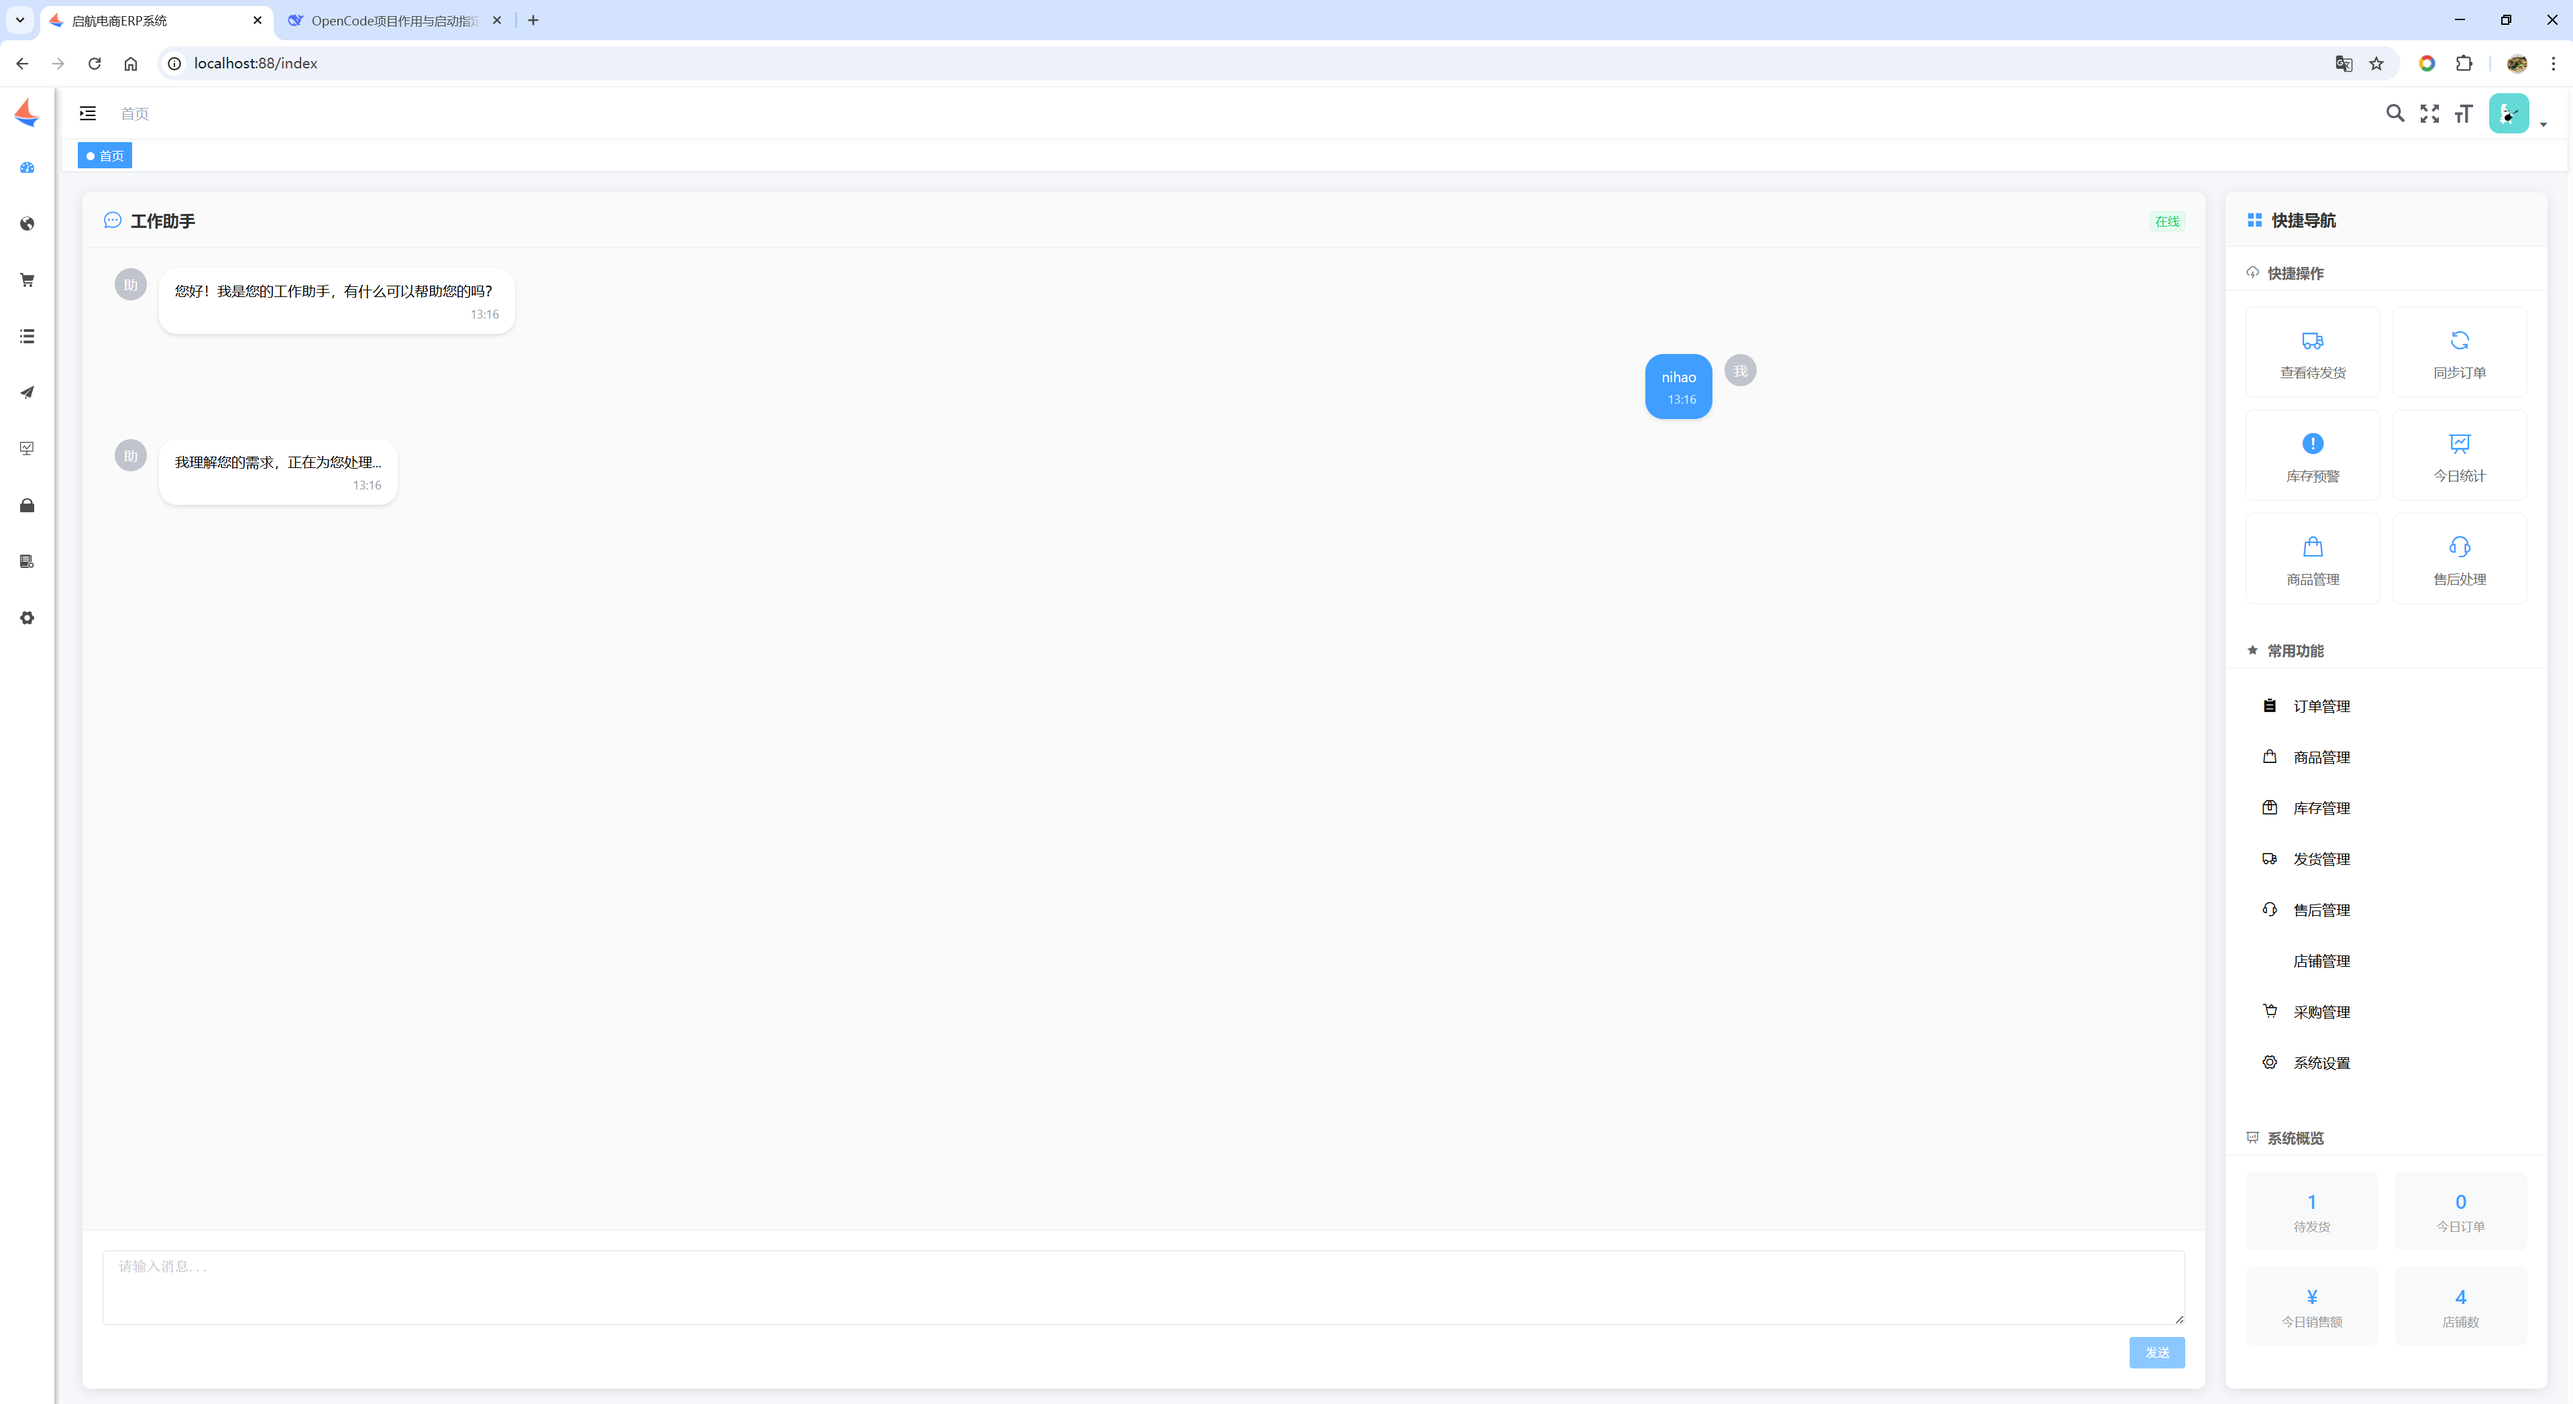
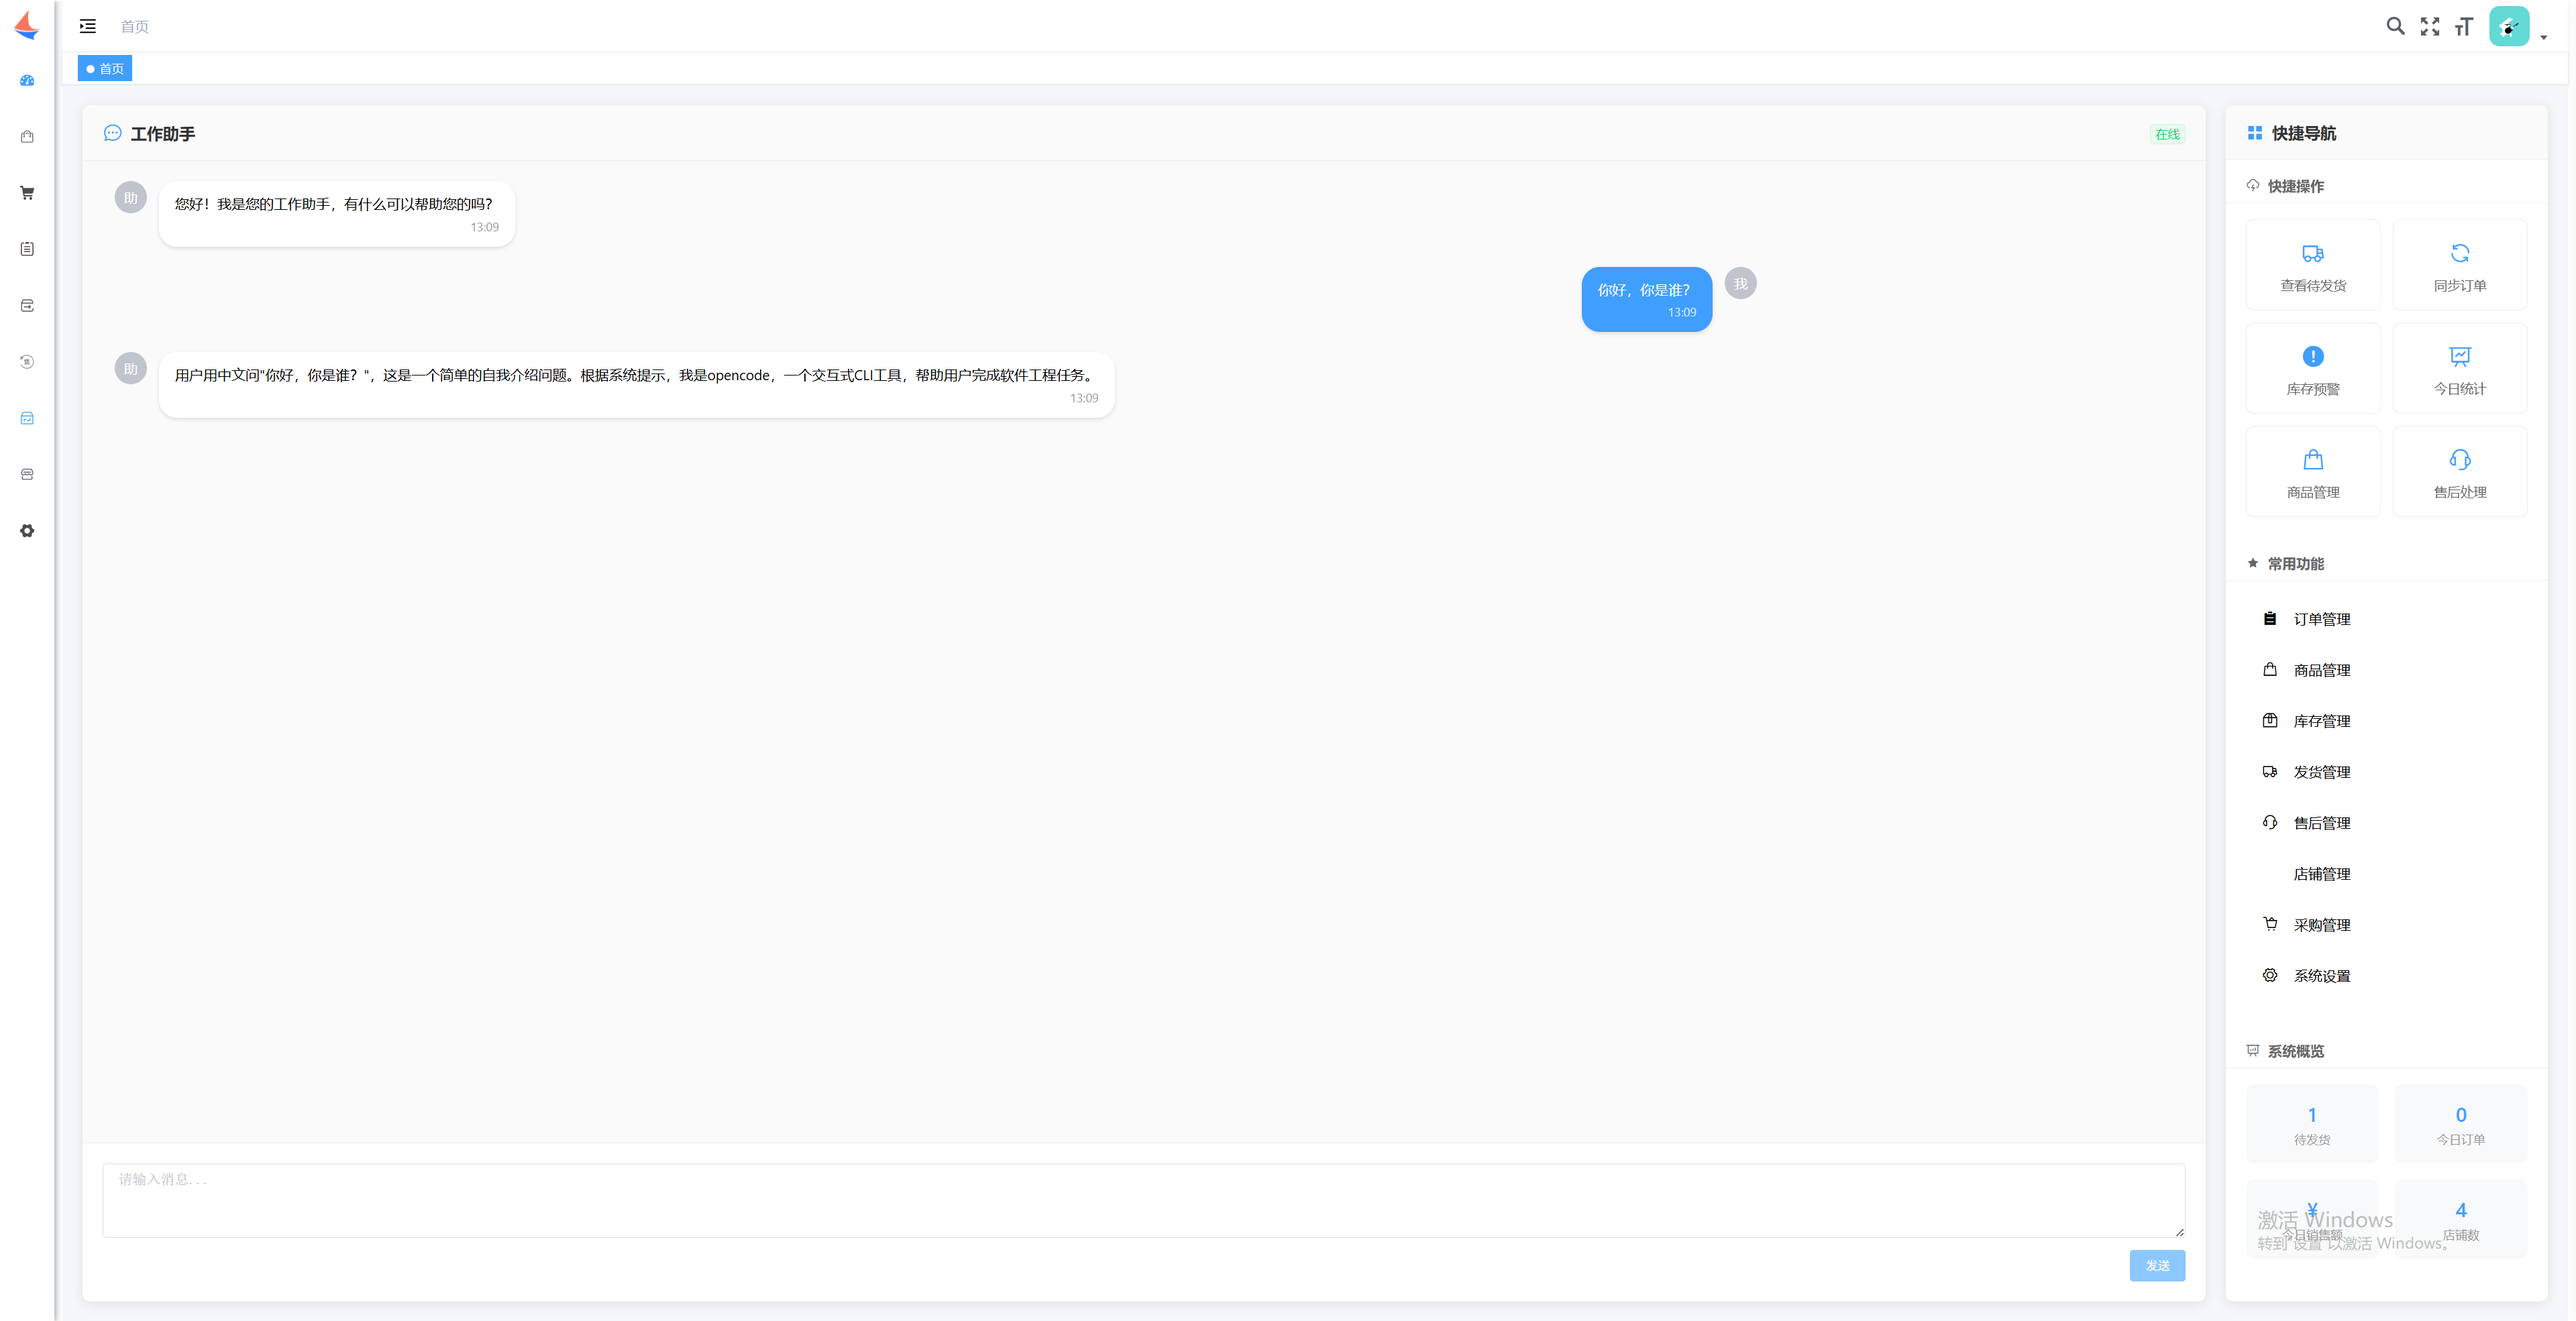
更新opencode-api

diff --git a/api/src/main/java/cn/qihangerp/api/ai/SseController.java b/api/src/main/java/cn/qihangerp/api/ai/SseController.java
@@ -98,12 +98,20 @@ public class SseController {
         HttpResponse<String> createSessionResponse = client.send(createSessionRequest, HttpResponse.BodyHandlers.ofString());
         String sessionId = parseSessionId(createSessionResponse.body());
         
-        // 2. 向会话发送消息
-        String requestBody = "{\"parts\": [{\"type\": \"text\", \"text\": \"" + message + "\"}]}";
+        // 2. 构建消息请求体
+        JSONObject requestBody = new JSONObject();
+        JSONArray parts = new JSONArray();
+        JSONObject part = new JSONObject();
+        part.put("type", "text");
+        part.put("text", message);
+        parts.add(part);
+        requestBody.put("parts", parts);
+        
+        // 3. 向会话发送消息
         HttpRequest sendMessageRequest = HttpRequest.newBuilder()
                 .uri(URI.create("http://localhost:14967/session/" + sessionId + "/message"))
                 .header("Content-Type", "application/json")
-                .POST(HttpRequest.BodyPublishers.ofString(requestBody))
+                .POST(HttpRequest.BodyPublishers.ofString(requestBody.toJSONString()))
                 .build();
         
         // 发送请求并获取响应
@@ -130,11 +138,23 @@ public class SseController {
     private String parseAIResponse(String responseBody) {
         log.info("=================AI回复==========");
         log.info(responseBody);
-        // 简单解析JSON，提取AI回复
-        JSONObject jsonObject = JSONObject.parseObject(responseBody);
-        JSONArray jsonArray = jsonObject.getJSONArray("parts");
+        try {
+            // 解析响应，提取AI回复
+            JSONObject jsonObject = JSONObject.parseObject(responseBody);
+            if (jsonObject.containsKey("info")) {
+                JSONArray parts = jsonObject.getJSONArray("parts");
+                for (int i = 0; i < parts.size(); i++) {
+                    JSONObject part = parts.getJSONObject(i);
+                    if (part.containsKey("text")) {
+                        return part.getString("text");
+                    }
+                }
 
-        return jsonArray.getJSONObject(2).getString("text");
+            }
+        } catch (Exception e) {
+            e.printStackTrace();
+        }
+        return "无法获取AI回复";
     }
 
     @GetMapping("/disconnect")
